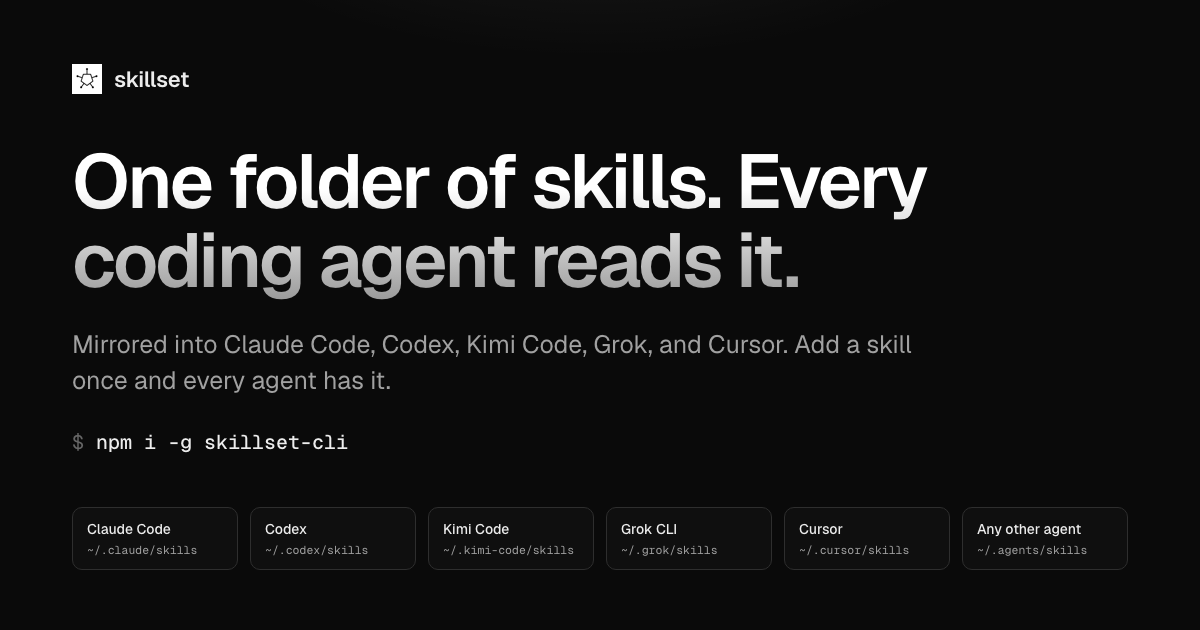
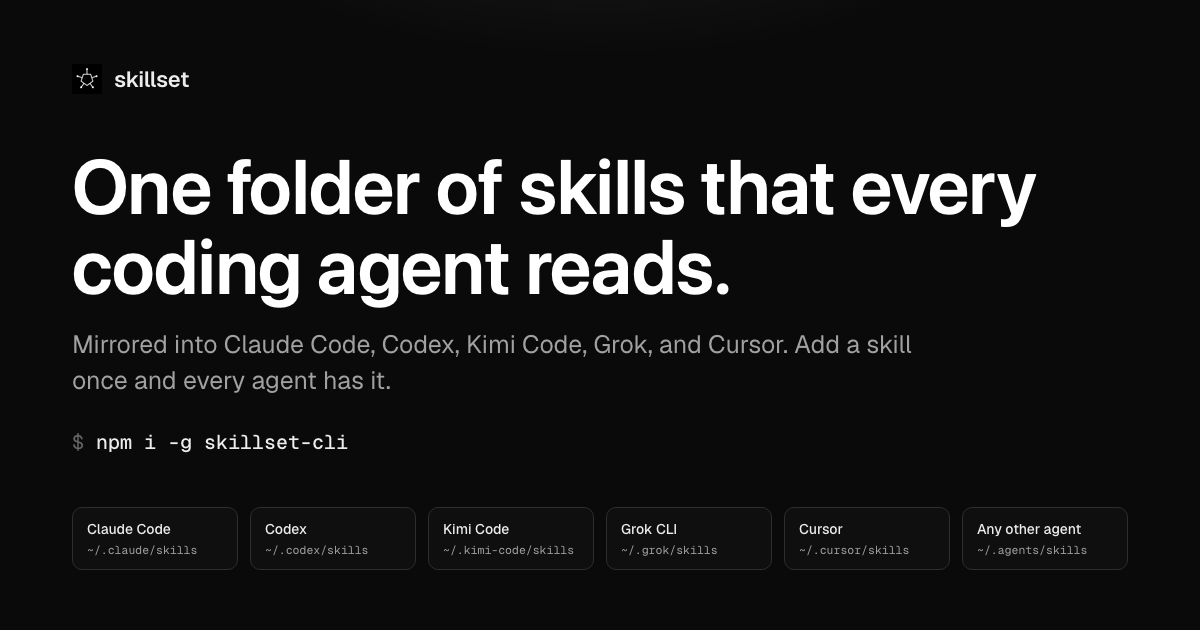
Set Skillset dark branding and tagline

Changed region(s): [[0.0617, 0.2413, 0.8633, 0.5127], [0.0617, 0.0905, 0.0925, 0.1508]]

diff --git a/site/index.html b/site/index.html
@@ -7,7 +7,7 @@
       name="description"
       content="Skillset keeps one folder of SKILL.md files on your disk and mirrors it into Claude Code, Codex, Kimi Code, Grok, and Cursor. Add a skill once and every agent has it."
     />
-    <meta property="og:title" content="Skillset. One folder of skills, read by every coding agent." />
+    <meta property="og:title" content="Skillset. One folder of skills that every coding agent reads." />
     <meta
       property="og:description"
       content="One folder of SKILL.md files, mirrored into Claude Code, Codex, Kimi Code, Grok, and Cursor. Add a skill from a tweet or a repo. Make a rule always-on everywhere."
@@ -25,7 +25,7 @@
     />
     <meta name="twitter:image" content="./assets/skillset-preview.png?v=7" />
     <meta name="theme-color" content="#0a0a0a" />
-    <title>Skillset. One folder of skills, read by every coding agent.</title>
+    <title>Skillset. One folder of skills that every coding agent reads.</title>
     <link rel="icon" href="./assets/skillset-icon.svg" type="image/svg+xml" />
     <link rel="icon" href="./assets/skillset-icon-64.png" type="image/png" sizes="64x64" />
     <link rel="preconnect" href="https://fonts.googleapis.com" />
@@ -57,7 +57,7 @@
     <main id="top">
       <section class="hero wrap" aria-labelledby="hero-title">
         <div class="hero-glow" aria-hidden="true"></div>
-        <h1 id="hero-title"><span class="line">One folder of skills.</span> <span class="line">Every coding agent reads it.</span></h1>
+        <h1 id="hero-title"><span class="line">One folder of skills that every</span> <span class="line">coding agent reads.</span></h1>
         <p class="lede">
           Claude Code, Codex, Kimi Code, Grok, and Cursor all learn from <code>SKILL.md</code> files,
           each from a folder of its own. Skillset keeps one folder you own and mirrors it into all of

diff --git a/site/assets/skillset-preview.html b/site/assets/skillset-preview.html
@@ -129,7 +129,7 @@
       <img src="./skillset-icon.svg" width="30" height="30" alt="" />
       skillset
     </div>
-    <h1>One folder of skills. Every coding agent reads it.</h1>
+    <h1>One folder of skills that every coding agent reads.</h1>
     <p>Mirrored into Claude Code, Codex, Kimi Code, Grok, and Cursor. Add a skill once and every agent has it.</p>
     <div class="install">$ <b>npm i -g skillset-cli</b></div>
     <div class="row">
